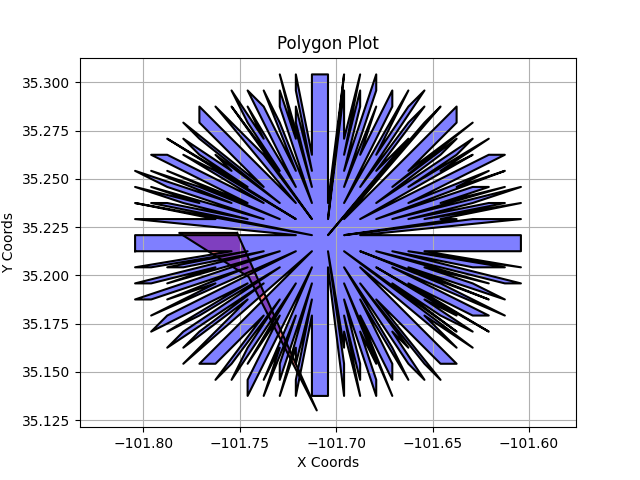
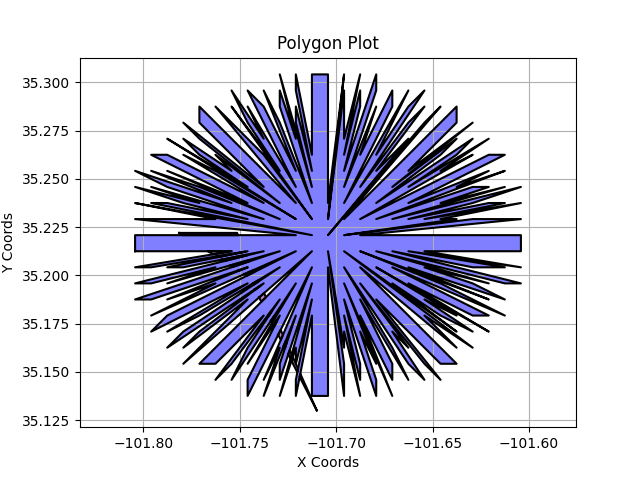
debugging to generate output from `boundary_input.py`

Changed region(s): [[0.2812, 0.4688, 0.4375, 0.6875], [0.4375, 0.6875, 0.4688, 0.75]]

diff --git a/TRL_BLZR_BOUNDARY/boundary_input.py b/TRL_BLZR_BOUNDARY/boundary_input.py
@@ -1,12 +1,12 @@
 import numpy as np
 import pandas as pd
 import shapely
-import matplotlib.pyplot as plt
+#import matplotlib.pyplot as plt
+
 
 def air_spaces():
     points = pd.read_csv("new_data.csv")
     points = points.groupby("APT1_NAME")
-    #print(points["Rick Husband Amarillo Intl"])
     return {name: data for name, data in points}
 
 
@@ -28,8 +28,9 @@ def poly_gen(points):
     polygon = shapely.Polygon(points)
     return polygon
 
+
 def sort_points(points):
-    centroid = np.mean(points, axis = 0)
+    centroid = np.mean(points, axis=0)
 
     angles = np.arctan2(points[:, 1] - centroid[1], points[:, 0] - centroid[0])
 
@@ -37,36 +38,54 @@ def sort_points(points):
 
     return sorted_points
 
-def plot_boundary(polygon, color = 'red'):
-    x,y = polygon.exterior.coords.xy
-    plt.fill(x, y, color, alpha = 0.5)
-    plt.plot(x, y, color='black')
-    plt.xlabel('X Coords')
-    plt.ylabel('Y Coords')
-    plt.title('Polygon Plot')
+
+def plot_boundary(polygon, color="red"):
+    x, y = polygon.exterior.coords.xy
+    plt.fill(x, y, color, alpha=0.5)
+    plt.plot(x, y, color="black")
+    plt.xlabel("X Coords")
+    plt.ylabel("Y Coords")
+    plt.title("Polygon Plot")
     plt.grid(True)
-    plt.axis('equal')
+    plt.axis("equal")
+
 
 def main():
-    plt.figure()
     air_spaces_list = air_spaces()
-    print(air_spaces_list["Rick Husband Amarillo Intl"])
     flight_boundary = poly_gen(
+        #[
+        #    [-101.7512969, 35.2219971],
+        #    [-101.7813, 35.2220],
+        #    [-101.745276, 35.199165],
+        #    [-101.71, 35.13],
+        #]
         boundary_input()
     )
-    plot_boundary(flight_boundary)
+    print(flight_boundary)
     for space_name, space_data in air_spaces_list.items():
-        space_points = np.array([
-            [long, lat]
-            for long, lat in zip(space_data["LONGITUDE"], space_data["LATITUDE"])
-        ])
+        space_points = np.array(
+            [
+                [long, lat]
+                for long, lat in zip(space_data["LONGITUDE"], space_data["LATITUDE"])
+            ]
+        )
         space_points = sort_points(space_points)
         space_polygon = shapely.Polygon(space_points)
-        if space_name == "Rick Husband Amarillo Intl":
-            plot_boundary(space_polygon, 'blue')
         if flight_boundary.overlaps(space_polygon):
-            print(f"Overlap detected for air space: {space_name}")
-        plt.savefig('boundaries.png')
+            print(f"Overlap detected for air space: {space_name}. Trimming boundary...")
+            flight_boundary = flight_boundary.difference(space_polygon)
+        with open('boundary_vertices.txt', 'w') as file:
+            try:
+                for coord in list(flight_boundary.exterior.coords):
+                    file.write(f"{coord[1]}, {coord[0]}\n")
+            except AttributeError as e:
+                count = 1
+                for geom in flight_boundary.geoms:
+                    file.write(f"shape no. {count}:\n")
+                    for coord in list(geom.exterior.coords):
+                        file.write(f"{coord[1]}, {coord[0]}\n")
+                    count += 1
+            file.close() 
 
 if __name__ == "__main__":
     main()
